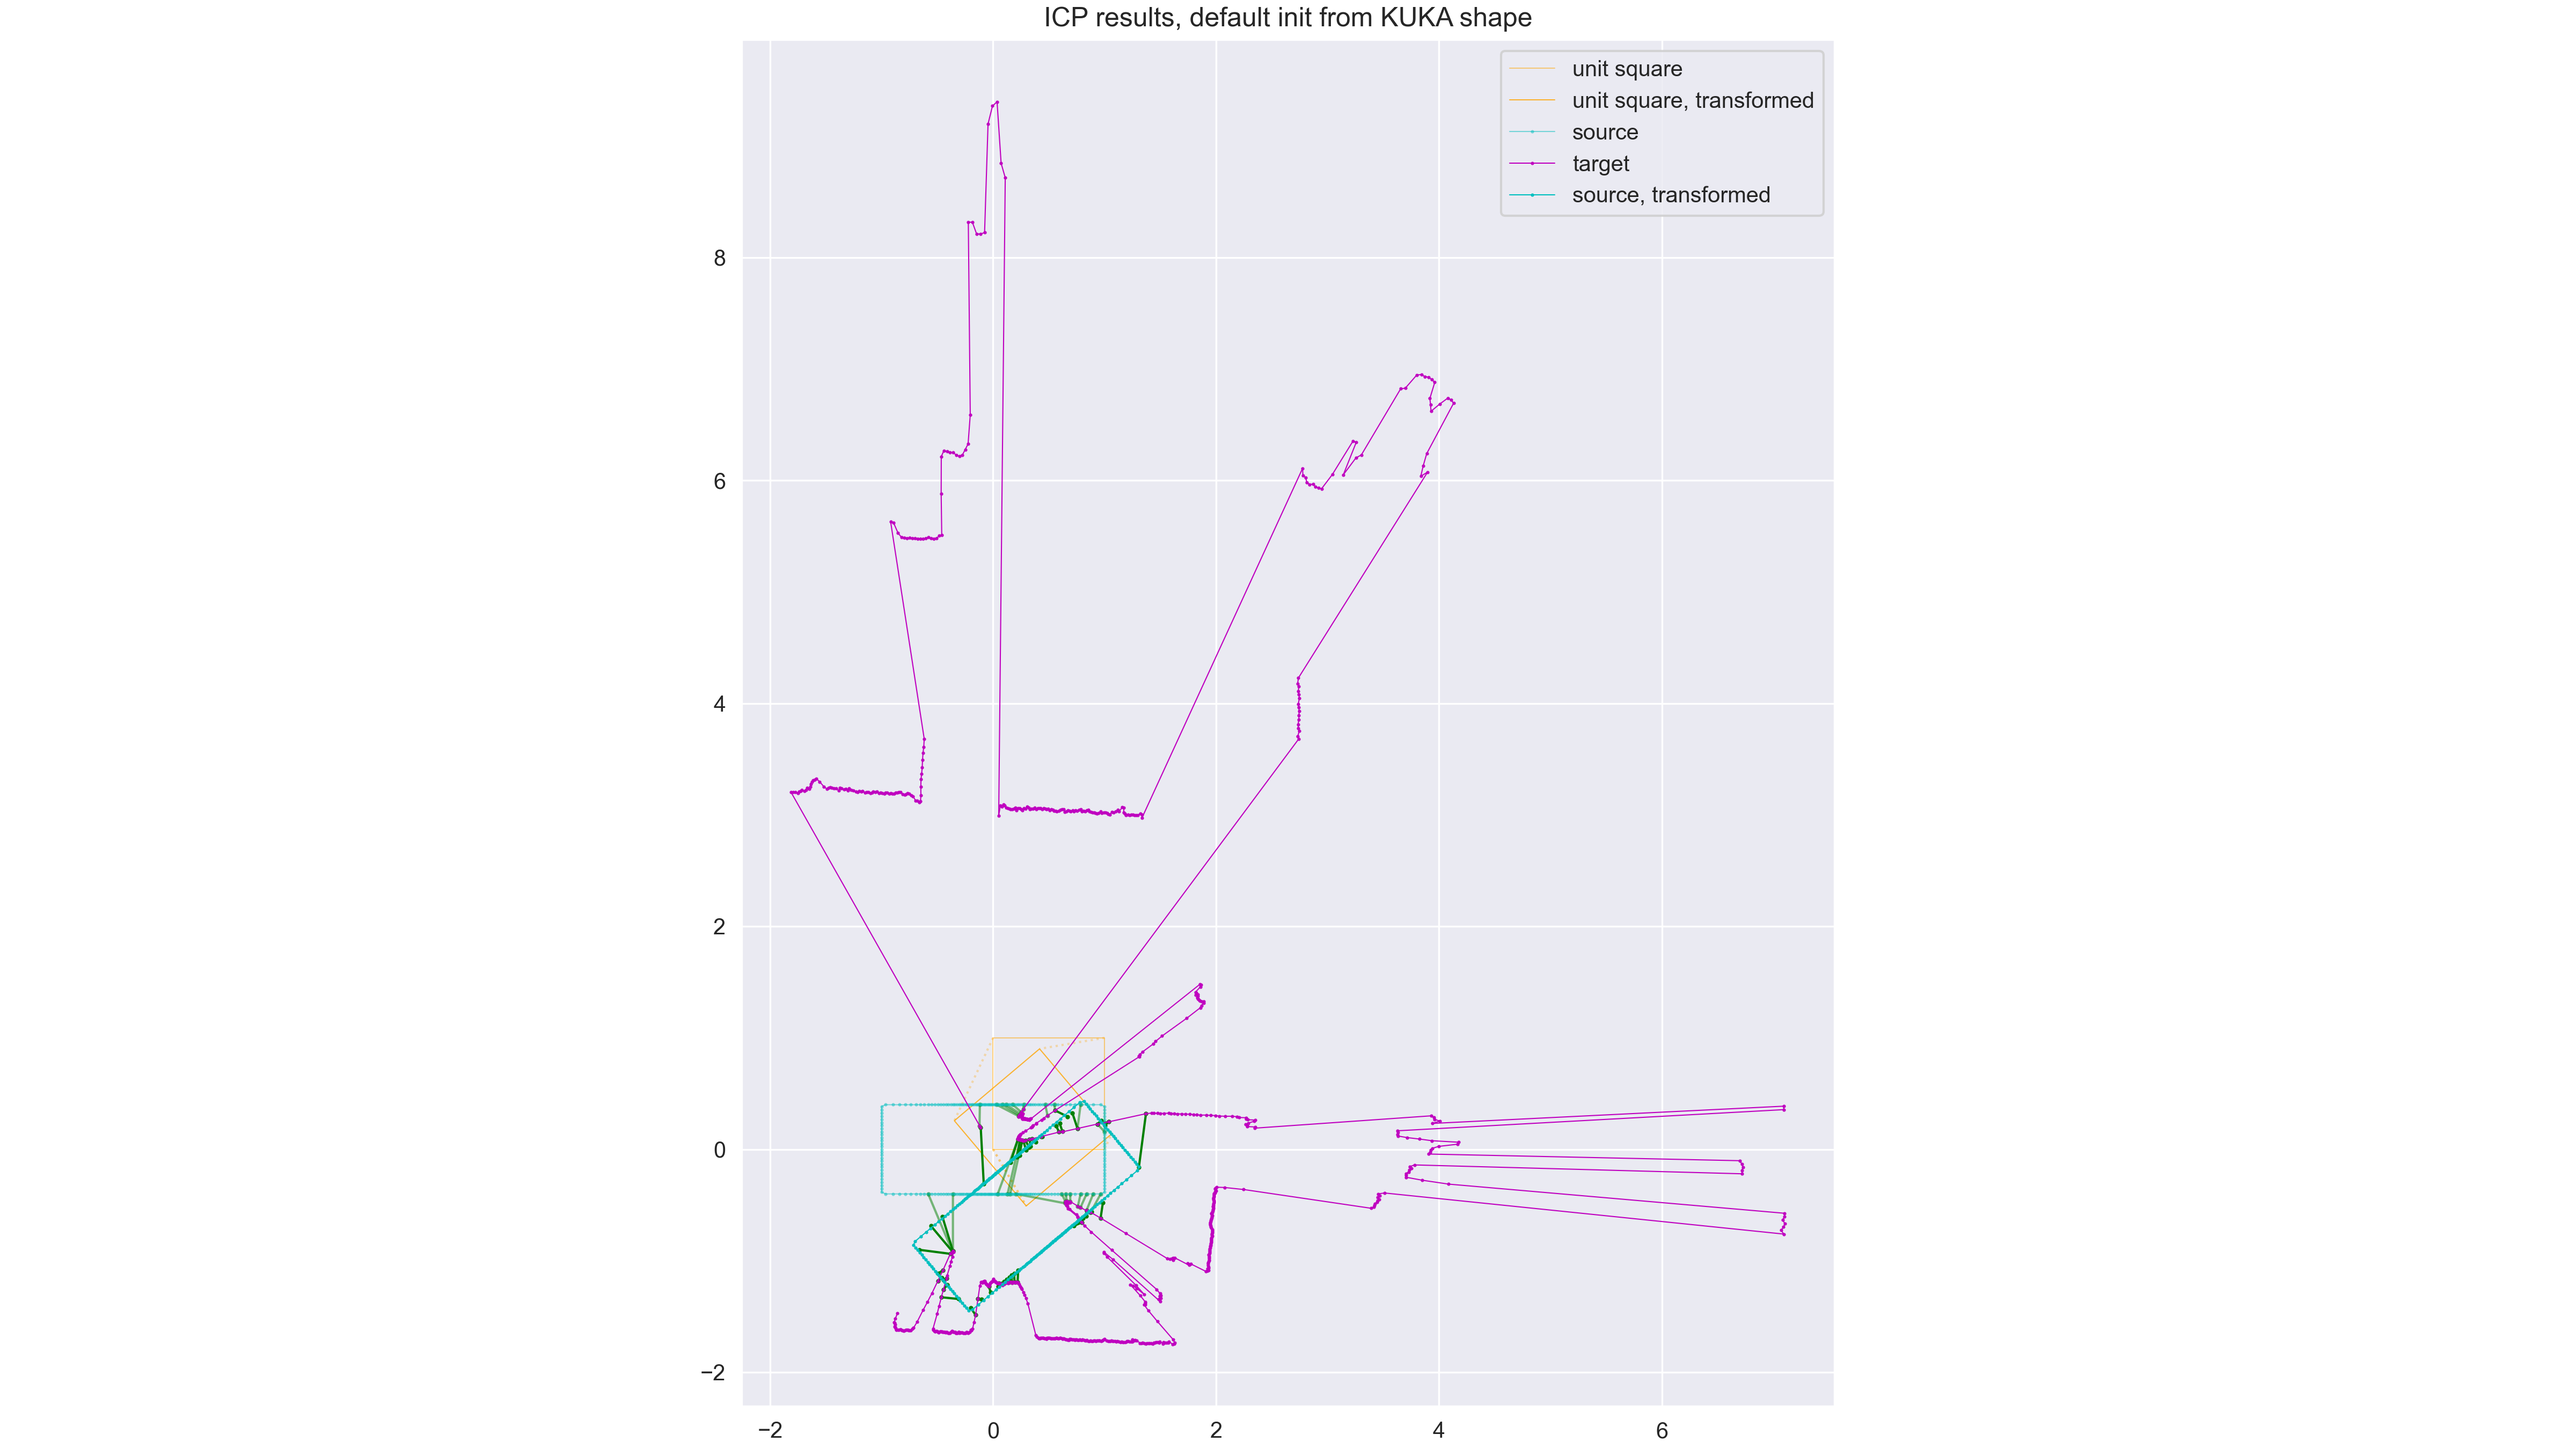
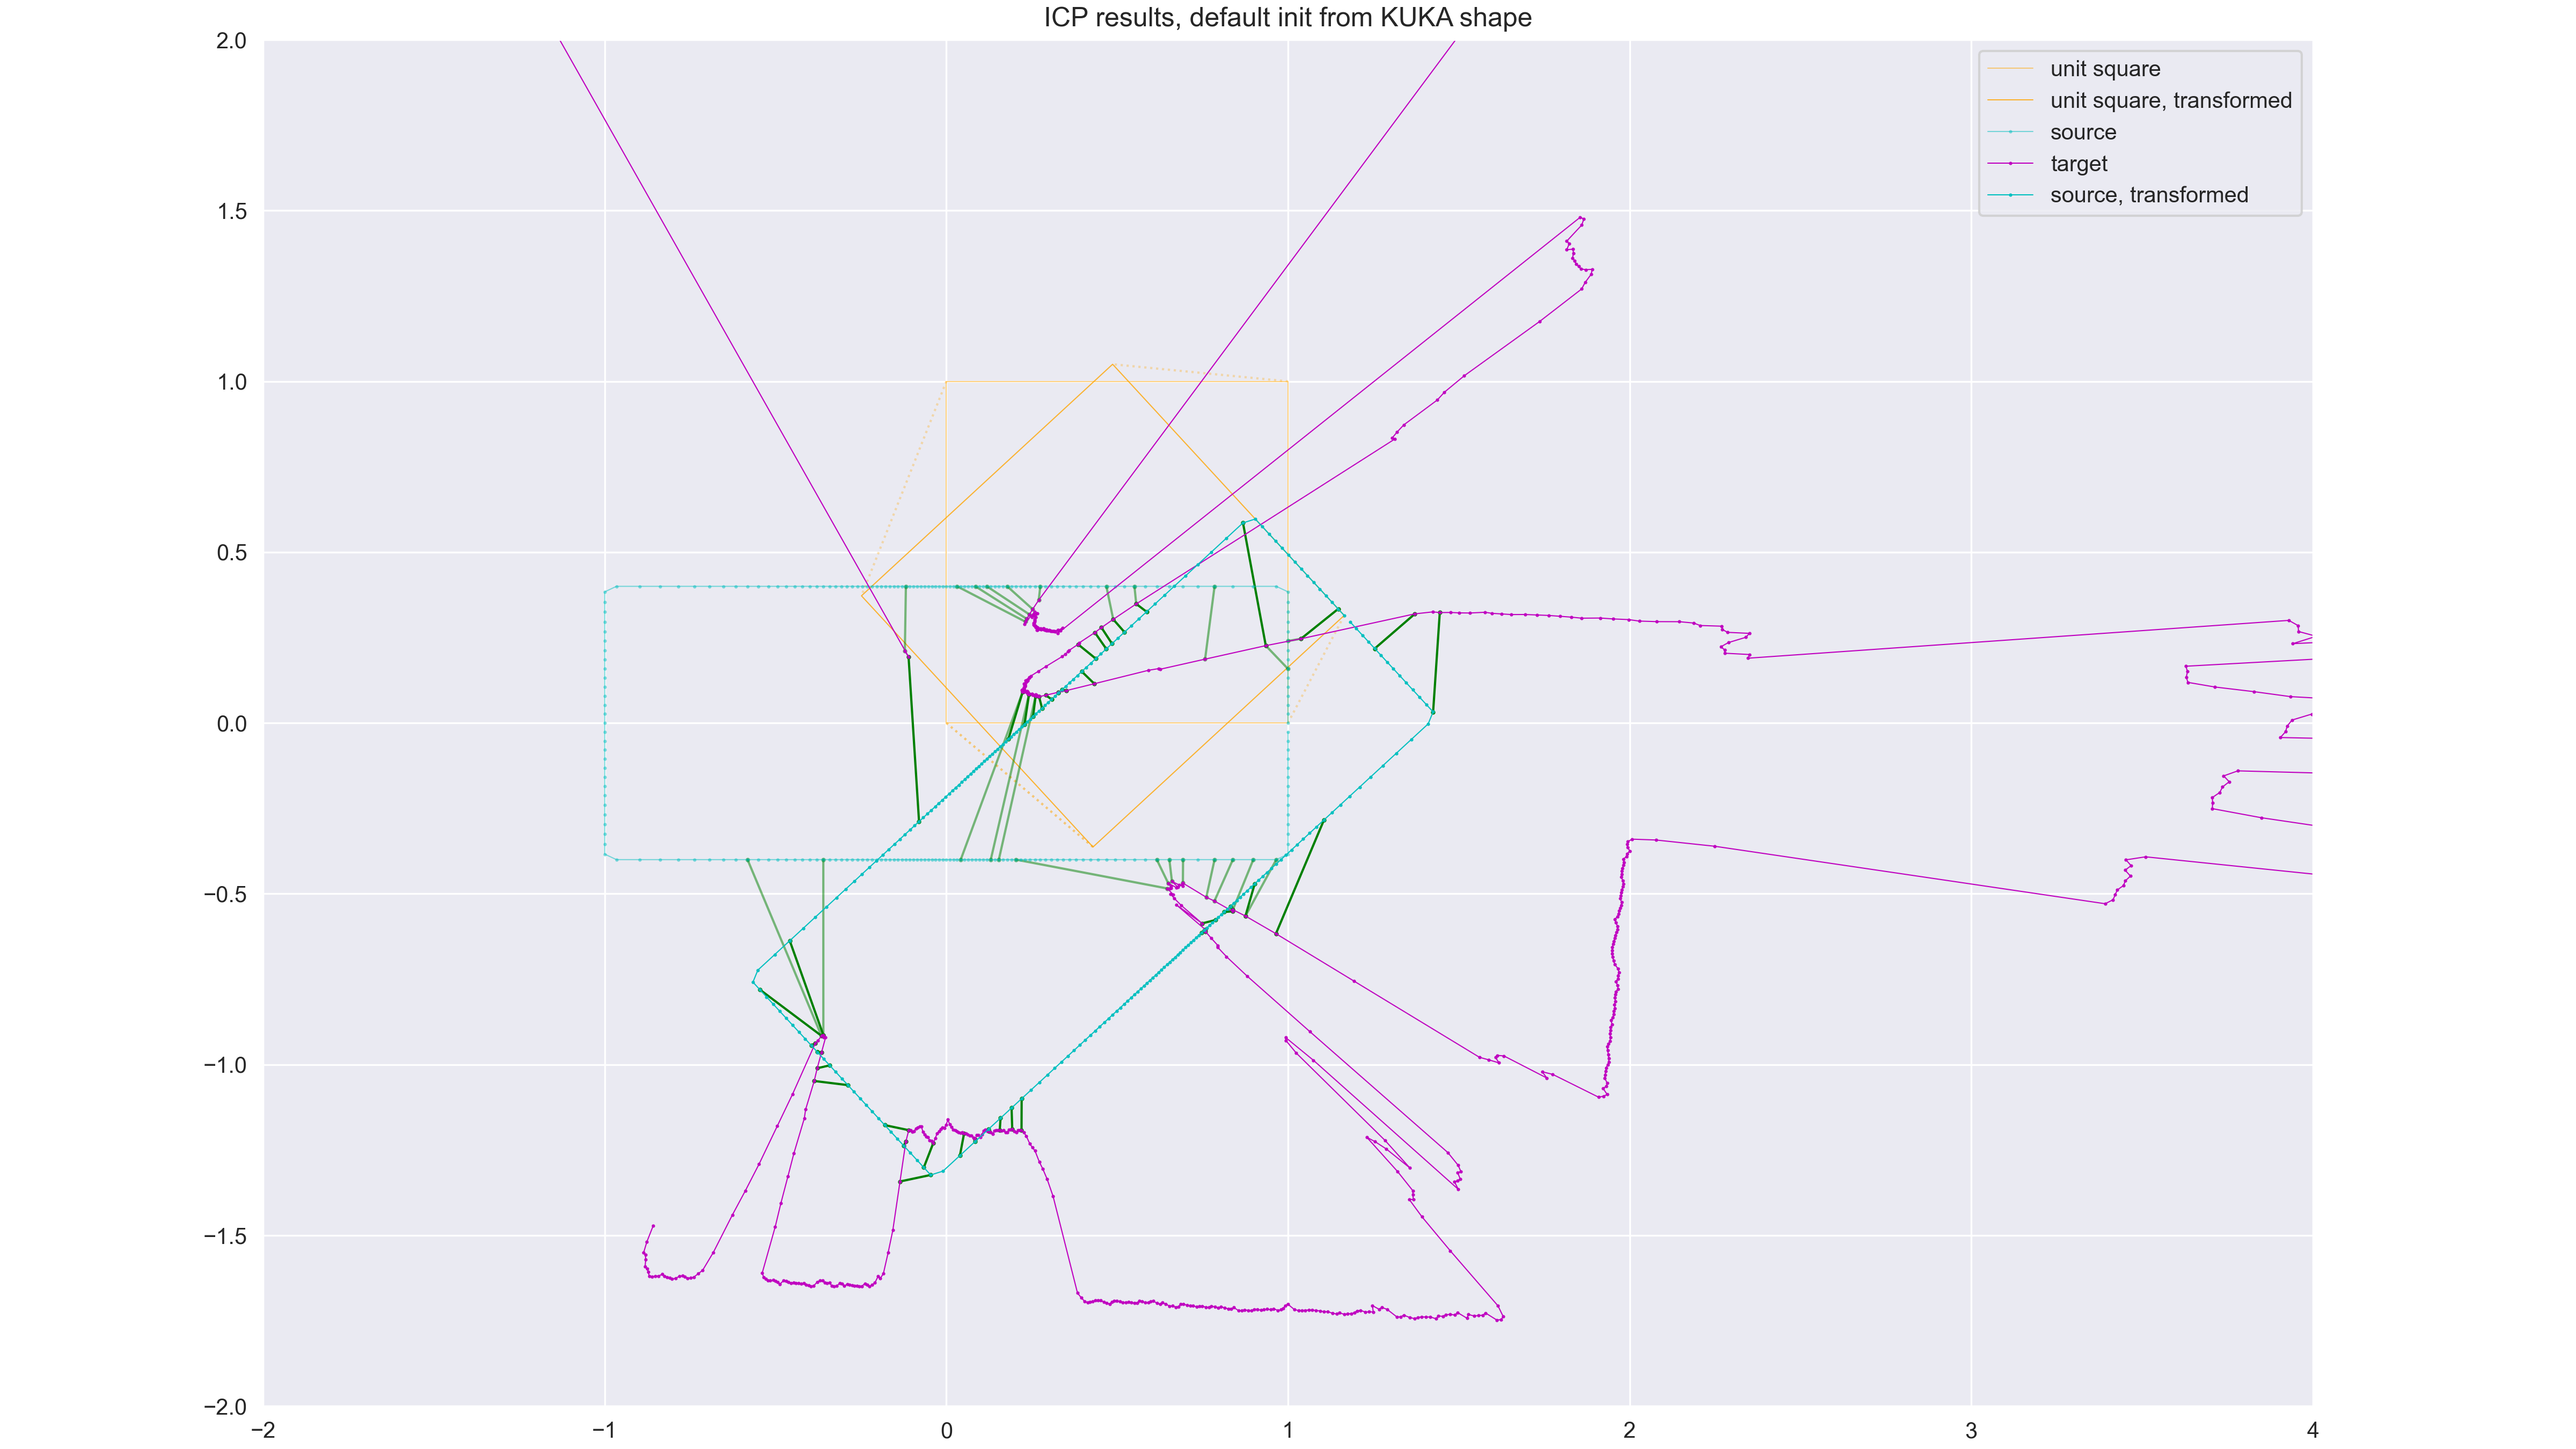
Update: visualize ICP failure

diff --git a/scripts/robo_pose_estimator.py b/scripts/robo_pose_estimator.py
@@ -27,13 +27,15 @@ class Icp:
         :param tsf: Initial transformation estimate
         :param max_iter: Max iteration, stopping criteria
         :param min_d_err: Minimal change in error, stopping criteria
-        :param lst_match: List of source-target tuple matched points in each iteration
-        :param match: If true, keep track of source-target tuple matched points in each iteration
+        :param lst_match: List of source-target matched points in each iteration
+        :param match: If true, keep track of source-target matched points in each iteration
         """
         err = float('inf')
         d_err = float('inf')
         n = 0
+        # src = self.src @ tsf.T
         src = self.src
+        # ic(tsf)
 
         # if match:
         #     lst_match = []
@@ -140,14 +142,19 @@ class PoseEstimator:
             # tsf = Icp(pts_a, self.pc_b)()
             # plot_icp_result(extend_1s(pts_a), self.pc_b, tsf, title='default init', save=True)
 
-            def visualize(a, b, title):
+            def visualize(a, b, title, tsf=np.identity(3)):
                 l_m = []
-                tsf = Icp(a, b)(lst_match=l_m, match=True)
-                # ic(l_m)
+                tsf = Icp(a, b)(tsf=tsf, lst_match=l_m, match=True, max_iter=100, min_d_err=1e-6)
+                ic('final ICP output', tsf)
                 plot_icp_result(extend_1s(a), b, tsf, title=title, save=True, lst_match=l_m, split=False)
 
             # visualize(pts_a, self.pc_b, 'default init from HSR')
-            visualize(self.pc_b, pts_a, 'default init from KUKA shape')
+            # visualize(self.pc_b, pts_a, 'default init from KUKA shape')
+            visualize(self.pc_b, pts_a, 'default init from KUKA shape, best translation guess', tsf=np.array([
+                [1, 0, 3],
+                [0, 1, -0.5],
+                [0, 0, 1]
+            ]))
 
     class FuseLaser:
         """

diff --git a/scripts/test.py b/scripts/test.py
@@ -1,15 +1,16 @@
 import numpy as np
 from icecream import ic
 
+from util import *
 from explore_package.irc_laser_data_eg import src_pts, tgt_pts
 from explore_package.Align2D import Align2D
-from robo_pose_estimator import PoseEstimator
+from robo_pose_estimator import Icp
 from explore_package.irl_data_loader import DataLoader
 
 
 class TestIcp:
     def __init__(self):
-        self.mine = PoseEstimator.Icp
+        self.mine = Icp
         self.ori = Align2D
 
     def __call__(self, src, tgt):
@@ -28,20 +29,20 @@ if __name__ == '__main__':
     dl = DataLoader(prefix='explore_package')
 
     def _test(i_strt, i_end):
-        src = ti.mine.extend_1s(dl[i_strt])
-        tgt = ti.mine.extend_1s(dl[i_end])
+        src = extend_1s(dl[i_strt])
+        tgt = extend_1s(dl[i_end])
         ti(src, tgt)
 
-    # # n_max = 10
-    # n_max = 6
-    # n = 1000
-    # n_measure = dl.ranges.shape[0]
-    # counts = np.arange(n)
-    # idx_strt = np.random.randint(n_measure - n_max, size=n)
-    # span = np.random.randint(1, high=n_max, size=n)
-    # for (count, i_s, s) in np.vstack([counts, idx_strt, span]).T:
-    #     ic(count, i_s, s)
-    #     _test(i_s, i_s+s)
+    # n_max = 10
+    n_max = 6
+    n = 100
+    n_measure = dl.ranges.shape[0]
+    counts = np.arange(n)
+    idx_strt = np.random.randint(n_measure - n_max, size=n)
+    span = np.random.randint(1, high=n_max, size=n)
+    for (count, i_s, s) in np.vstack([counts, idx_strt, span]).T:
+        ic(count, i_s, s)
+        _test(i_s, i_s+s)
 
     # _test(11644, 11644 + 4)  # An example with seed 77
-    _test(6600, 6600 + 4)  # An example with seed 7
+    # _test(6600, 6600 + 4)  # An example with seed 7

diff --git a/scripts/util.py b/scripts/util.py
@@ -169,9 +169,10 @@ def plot_icp_result(src, tgt, tsf, title=None, save=False, lst_match=None, split
     Assumes 2d data
     """
     # ic(src.shape, tsf.shape)
-    src_ = src @ tsf.T
+    # src_ = src @ tsf.T
     # ic(src_)
-    ori = np.array([0, 0])
+    # ori = np.array([0, 0])
+    ic()
     ori_tsl = tsf[:2, 2]
     ori_tsf = np.array([[0, 0, 1]]) @ tsf.T
     ori_tsf = np.squeeze(ori_tsf)[:2]
@@ -211,8 +212,8 @@ def plot_icp_result(src, tgt, tsf, title=None, save=False, lst_match=None, split
         )
         plt.plot((c1[0], c2[0]), (c1[1], c2[1]), **(kwargs_ | kwargs))
 
-    def _plot_matched_points(src_, tgt_, **kwargs):
-        for s_, t_ in zip(src_, tgt_):
+    def _plot_matched_points(src__, tgt__, **kwargs):
+        for s_, t_ in zip(src__, tgt__):
             _plot_line_seg(s_, t_, **kwargs)
 
     fig = plt.figure(figsize=(16, 9), constrained_layout=True)
@@ -243,6 +244,9 @@ def plot_icp_result(src, tgt, tsf, title=None, save=False, lst_match=None, split
         _plot_point_cloud(src, 'source', c='c', alpha=0.5)
         _plot_point_cloud(tgt, 'target', c='m')
         _plot_point_cloud(src @ tsf.T, 'source, transformed', c='c')
+
+        plt.xlim([-2, 5])
+        plt.ylim([-2, 1])
 
     t = 'ICP results'
     if split:

diff --git a/scripts/explore_package/Align2D.py b/scripts/explore_package/Align2D.py
@@ -161,12 +161,16 @@ if __name__ == '__main__':
     import math
 
     from irc_laser_data_eg import *
+    # from scripts.robo_pose_estimator import Icp
+
     ic(src_pts[:5], tgt_pts[:5])
     # ic(source_points[:, -1], target_points[:, -1])
     ic(src_pts.shape, tgt_pts.shape)
     a2d = Align2D(src_pts, tgt_pts, np.identity(3))
     tsf = a2d.transform
     ic(tsf)
+    # tsf = Icp(src_pts, tgt_pts)(np.identity(3))
+    # ic(tsf)
 
     def _plot_clouds(p_s, p_t, title=None, save=False):
         plt.figure(figsize=(16, 9), constrained_layout=True)
